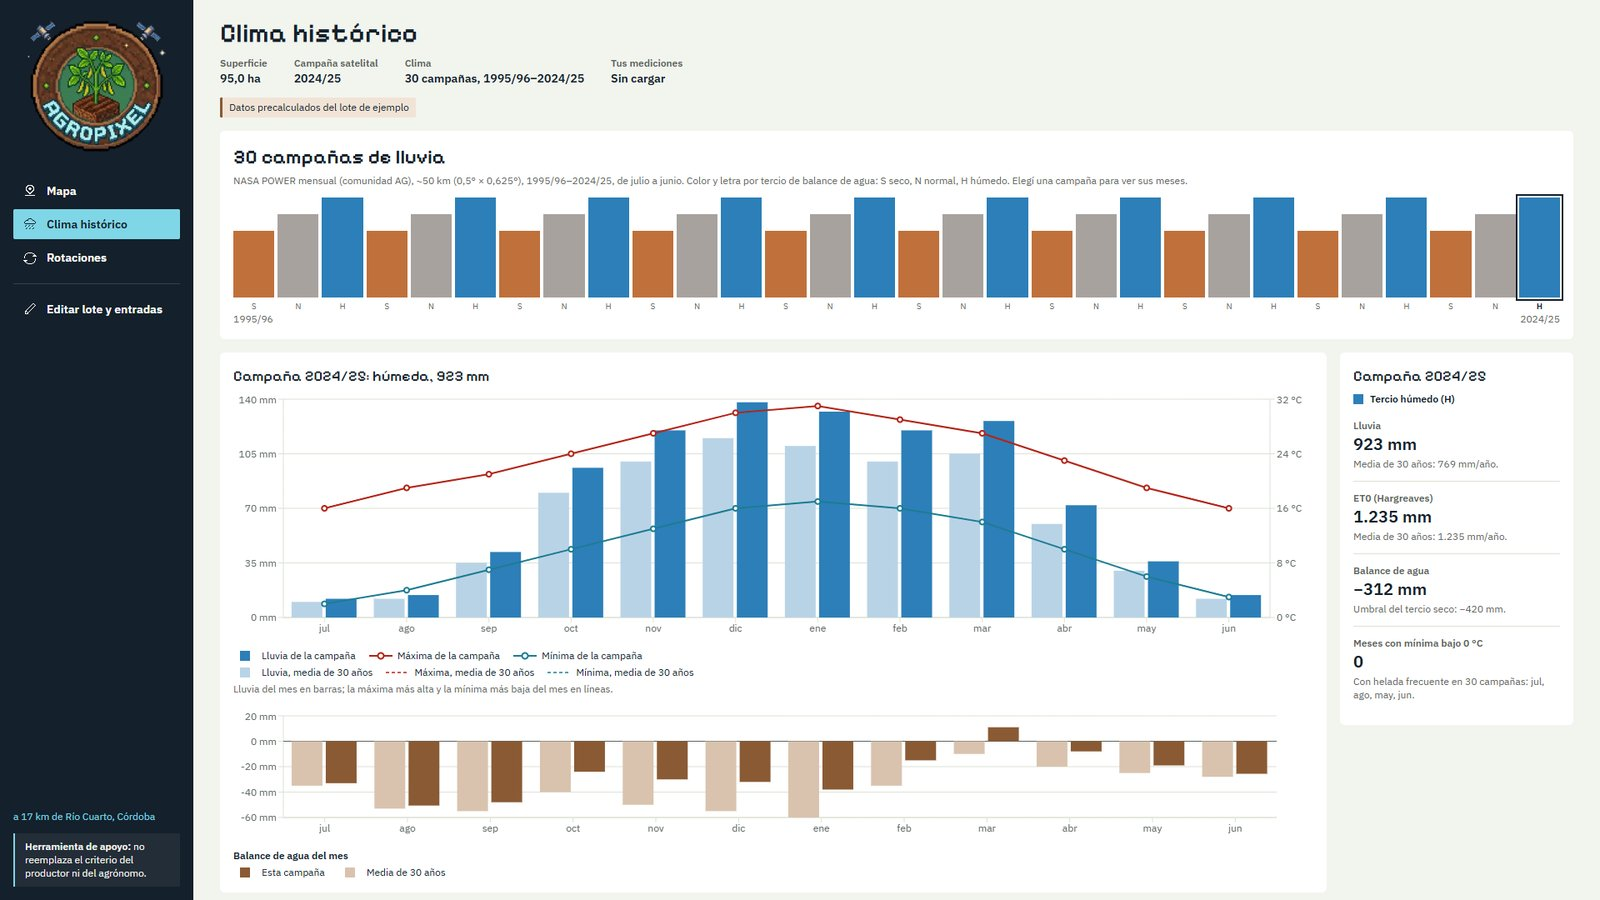
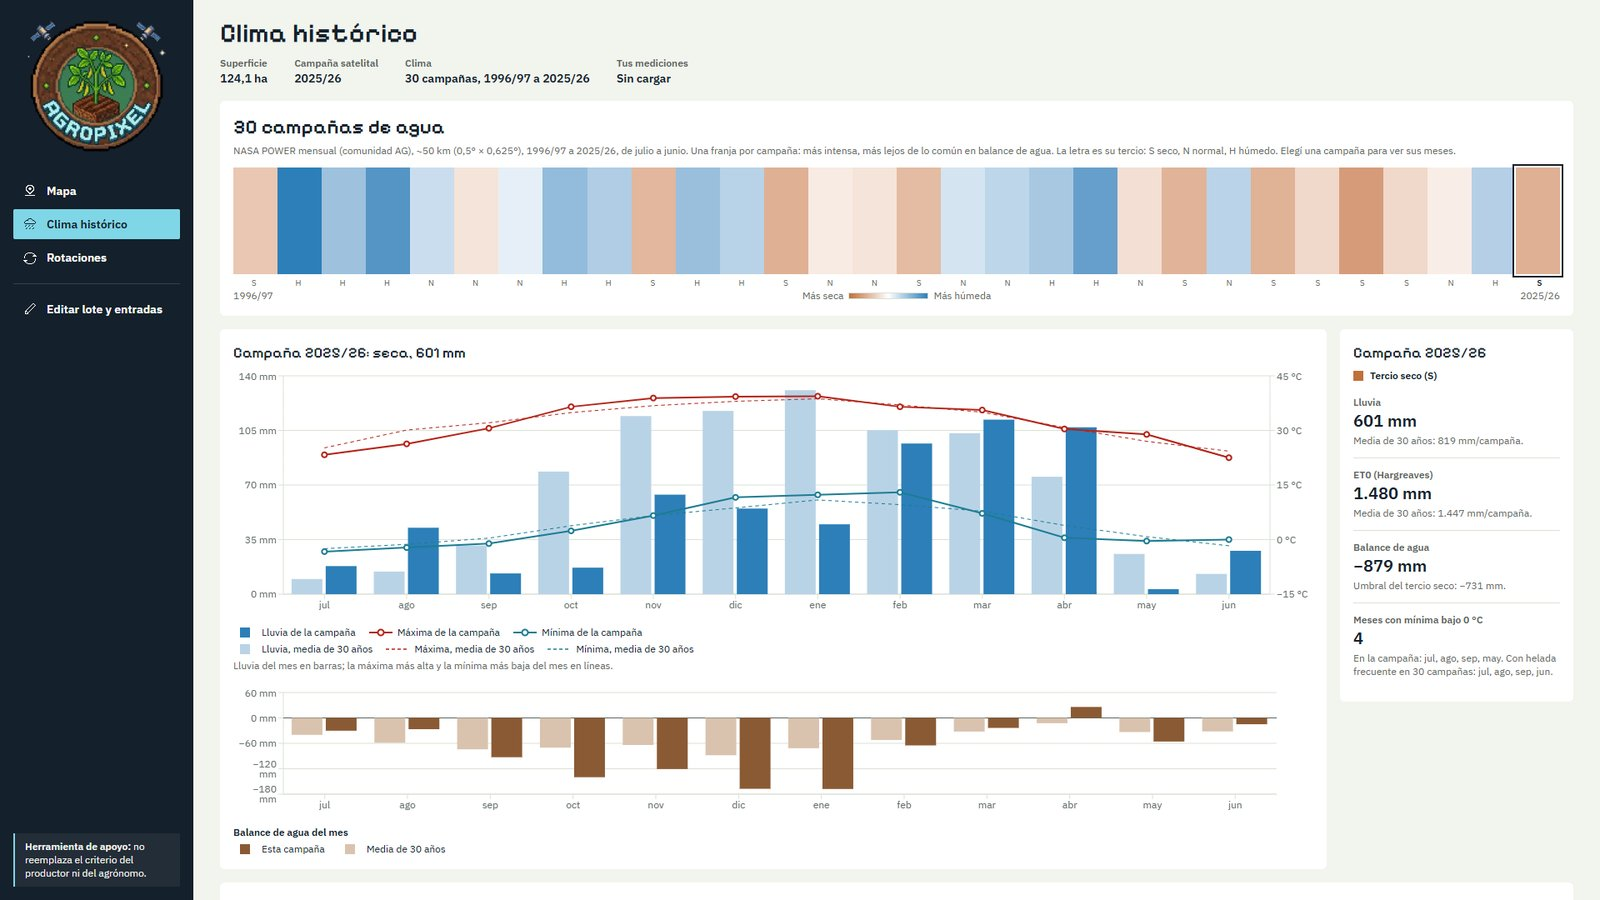
docs(repo): capturas nuevas de agropixel.earth con datos reales en el README

diff --git a/README.md b/README.md
@@ -68,23 +68,31 @@ Prefer to watch? The **[demo video](https://youtu.be/3xEYUBRogrE)** walks throug
 
 ## Screenshots
 
-Screenshots of the reference field near Río Cuarto, Córdoba, captured during development. They include the AI-generated AgroPixel logo.
+Captured from [agropixel.earth](https://agropixel.earth) on 15 November 2026, with live data: a 124 ha field near Río Cuarto, Córdoba, with soybean and winter fallow, 2025/26 season, 30 climate seasons from 1996/97 to 2025/26. The screenshots include the AI-generated AgroPixel logo.
 
-**1. Field and inputs.** The field drawn on the satellite map and the side panel: current rotation (soybean + winter fallow), priorities, constraints, field data and the grower's own records.
+**1. Field and inputs.** The field outlined on the satellite map, and the side panel with the current rotation (soybean + winter fallow, shown as a July–June calendar), priorities, constraints, field data and the grower's own records.
 
 ![Field outlined on the satellite map with the input panel](docs/img/inputs.jpg)
 
-**2. Map.** Satellite layers of the field (NDVI, slope, cropland, erosion, NASA POWER cell), the monthly NDVI timeline for the season, and the field's technical sheet. Every value shows its source, resolution and confidence.
+**2. Map: NDVI per pixel.** The HLS NDVI of the field on its 1 arc-second (~30 m) grid for July 2025, the monthly NDVI timeline of the season, and the field's technical sheet. Every value shows its source, resolution and confidence.
 
-![Map section with layer selector, NDVI timeline and technical sheet](docs/img/map.jpg)
+![Map section with the per-pixel NDVI layer, monthly timeline and technical sheet](docs/img/map.jpg)
 
-**3. Historical climate.** The 30 seasons colored by dry (S), normal (N) and wet (H) years. The selected season shows its monthly rainfall, temperatures and water balance against the 30-year mean.
+**3. Map: erosion risk per pixel.** NASADEM slope multiplied by the months of low ground cover seen by HLS, pixel by pixel. The field value in the table is the summary of this layer.
 
-![Historical climate section with 30 seasons and monthly detail](docs/img/historical-climate.jpg)
+![Map section with the per-pixel erosion risk layer](docs/img/map-erosion.jpg)
 
-**4. Rotations.** The priorities, the four rotations with their calendars, goal fit score, water balance by year type and climatological probability, and the five parts of each column.
+**4. Historical climate.** The 30 seasons, one stripe each: the color is more intense the further the season's water balance is from normal, and the letter gives its tercile (S dry, N normal, H wet). The selected season (2025/26, dry, 601 mm) shows its monthly rainfall, temperature extremes and water balance against the 30-year mean.
+
+![Historical climate section with 30 seasons and the monthly detail of 2025/26](docs/img/historical-climate.jpg)
+
+**5. Rotations.** The priorities and the four rotations, each with its July–June calendar, months of bare soil, goal fit score, water balance by year type, its first climatological probability, and the five parts of the column.
 
 ![Rotations section with the four strategy cards](docs/img/rotations.jpg)
+
+**6. Comparison table.** Goal fit score by criterion and by year type, the calendars with frost and heat markers and the NDVI seen by satellite, and each value with its source, confidence and difference from the current rotation. It can be exported to PDF.
+
+![Technical comparison table of the four rotations](docs/img/comparison-table.jpg)
 
 ## What it does
 
